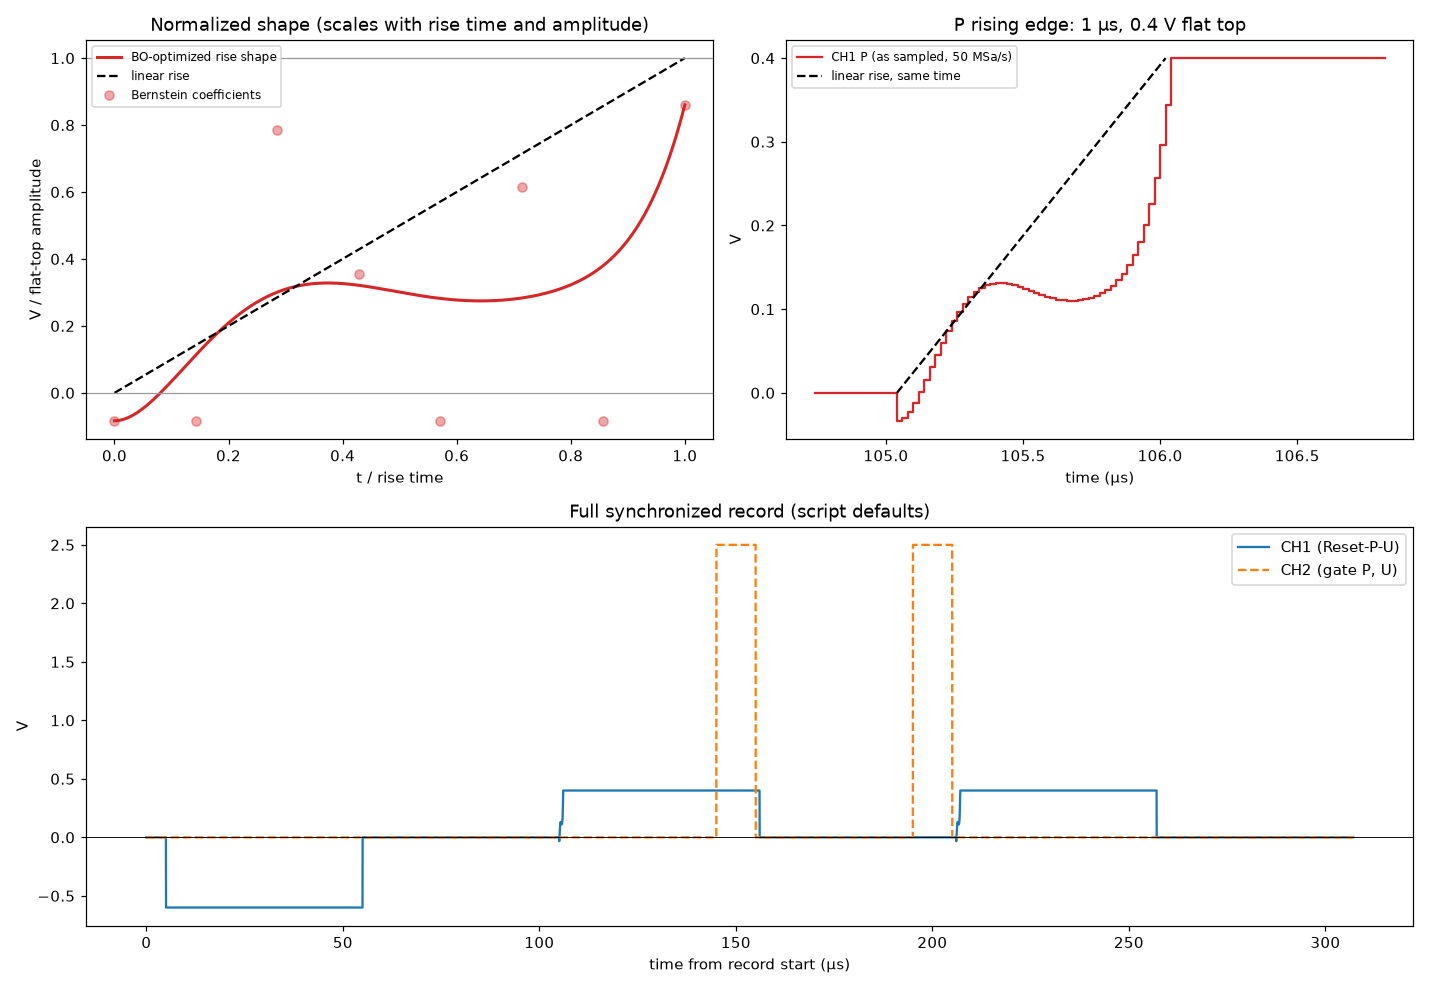
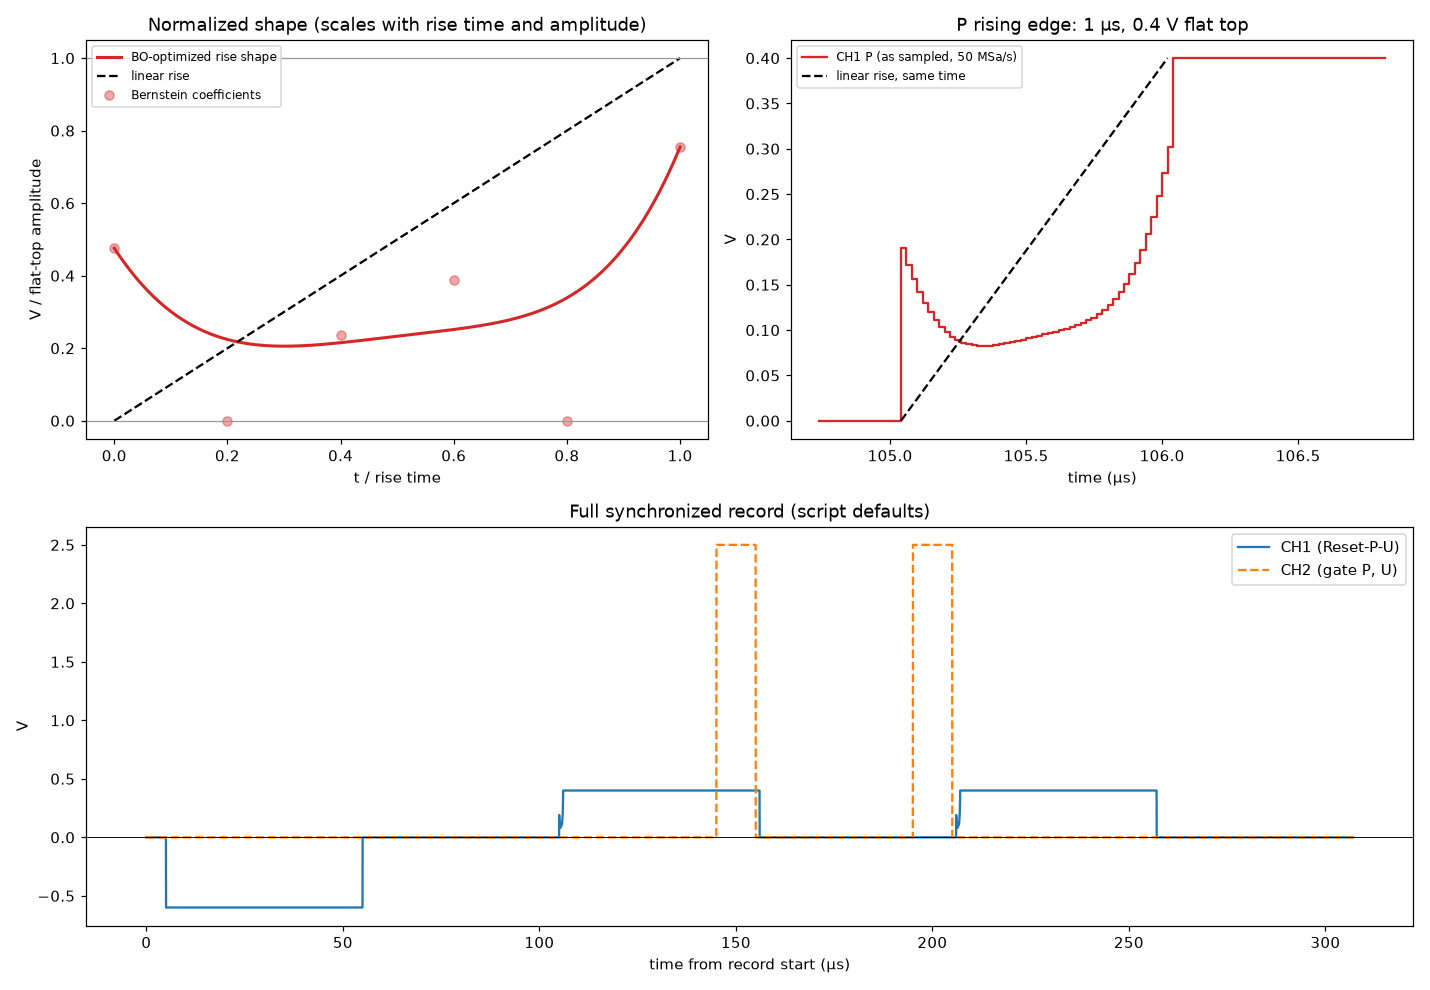
Use the 2026-11-01 1.09 us BO rise shape (rep3, 35.0 % less work, >= 0 V)

diff --git a/sdg6022x_synchronized_1rpund_2gate_BO_shaped_rise.py b/sdg6022x_synchronized_1rpund_2gate_BO_shaped_rise.py
@@ -104,15 +104,15 @@ pos_rise_time_s = 1e-6         # BO-shaped rising edge duration (the shape is st
 pos_edge_time_s = 20e-9        # Linear FALLING edge only (the rise is pos_rise_time_s)
 
 # BO-optimized rise shape: Bernstein coefficients c_k as fractions of the
-# flat-top amplitude, V(s) = pos_amplitude_v * sum_k c_k C(7,k) s^k (1-s)^(7-k),
-# s = 0..1 over pos_rise_time_s. Only the SHAPE is borrowed; rise time and
-# amplitude above are free. Source: Bayesian optimization run 2026-11-17,
-# device BTO_PLD219_2, 1 us rise, 1.2 V flat top (rise_time_s1e-06_rep2):
-# 30.4 % less switching work than a linear rise at the same delta_P.
-# The rise ends at 0.86 of the flat top and steps up into it (as optimized),
-# and dips slightly below 0 V (-0.083 x amplitude) as optimized.
-BO_RISE_SHAPE = np.array([-0.1, -0.1, 0.9421935716397816, 0.4264962212849039,
-                          -0.1, 0.7366323818702947, -0.1, 1.0323320817794868]) / 1.2
+# flat-top amplitude, V(s) = pos_amplitude_v * sum_k c_k C(n,k) s^k (1-s)^(n-k),
+# n = 5, s = 0..1 over pos_rise_time_s. Only the SHAPE is borrowed; rise time
+# and amplitude above are free. Source: Bayesian optimization run 2026-11-01,
+# device BTO_PLD219_2, 1.09 us rise, 1.2 V flat top, voltages >= 0 V
+# (rise_time_s1.09e-06_rep3): 35.0 % less switching work than a linear rise
+# at the same delta_P. The rise starts at 0.48 and ends at 0.76 of the flat
+# top, stepping into both (as optimized).
+BO_RISE_SHAPE = np.array([0.5709409800860872, 0.0, 0.2821799540406488,
+                          0.4649694883726242, 0.0, 0.9060602792740968]) / 1.2
 
 # Negative pulses N and D (shared parameters)
 enable_nd_pulses = False        # False -> sequence ends after U (Reset-P-U only)

diff --git a/README.md b/README.md
@@ -18,9 +18,9 @@ Only the *shape* is fixed. Rise time and amplitude are still settings:
 | `pos_rise_time_s` | duration of the BO-shaped rise (default 1 µs) |
 | `pos_amplitude_v` | flat-top voltage; the shape is scaled to it |
 | `pos_edge_time_s` | linear **falling** edge only |
-| `BO_RISE_SHAPE` | 8 Bernstein coefficients, as fractions of the flat top |
+| `BO_RISE_SHAPE` | 6 Bernstein coefficients, as fractions of the flat top |
 
-The rise is V(t) = `pos_amplitude_v` · Σₖ cₖ·C(7,k)·sᵏ(1−s)⁷⁻ᵏ with
+The rise is V(t) = `pos_amplitude_v` · Σₖ cₖ·C(5,k)·sᵏ(1−s)⁵⁻ᵏ with
 s = t / `pos_rise_time_s`. It is sampled exactly as in the optimization: the
 built rise matches the BO code to within 3·10⁻⁸ V.
 
@@ -29,18 +29,19 @@ P gate still ends 1 µs (`gate_pad`) before the end of P's flat top.
 
 ## Where the shape comes from
 
-The shape is the BO run of 2026-11-17 on device BTO_PLD219_2, with a 1 µs rise
-and a 1.2 V flat top (`rise_time_s1e-06_rep2`). Its confirmed result was 30.4 %
-less switching work (∫V·(I_P − I_U)dt over the rise) than a linear rise, at the
-same switched polarization (1.0007 × the linear rise).
+The shape is the BO run of 2026-11-01 on device BTO_PLD219_2, with a 1.09 µs
+rise, a 1.2 V flat top and voltages limited to 0–1.45 V
+(`rise_time_s1.09e-06_rep3`). Its confirmed result was 35.0 % less switching
+work (∫V·(I_P − I_U)dt over the rise) than a linear rise, at the same switched
+polarization (1.0025 × the linear rise, 10 repeats).
 
 The shape has two features to be aware of:
-- It starts at −0.083 × amplitude, a small dip below 0 V.
-- It ends at 0.86 × amplitude and steps up into the flat top.
+- It jumps from 0 V to 0.48 × amplitude at the start, then dips to 0.21 × amplitude.
+- It ends at 0.76 × amplitude and steps up into the flat top.
 
-Both are part of the optimized shape.
+It never goes below 0 V. Both steps are part of the optimized shape.
 
-It was optimized for that device, at 1 µs and 1.2 V. At other rise times or
+It was optimized for that device, at 1.09 µs and 1.2 V. At other rise times or
 amplitudes the shape is reused as is. It is not re-optimized there, so it may
 not be the best shape.
 
